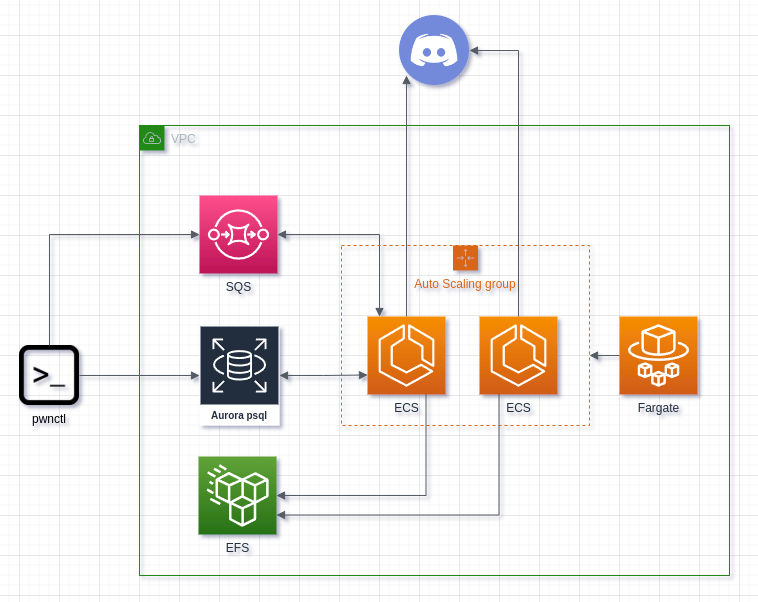
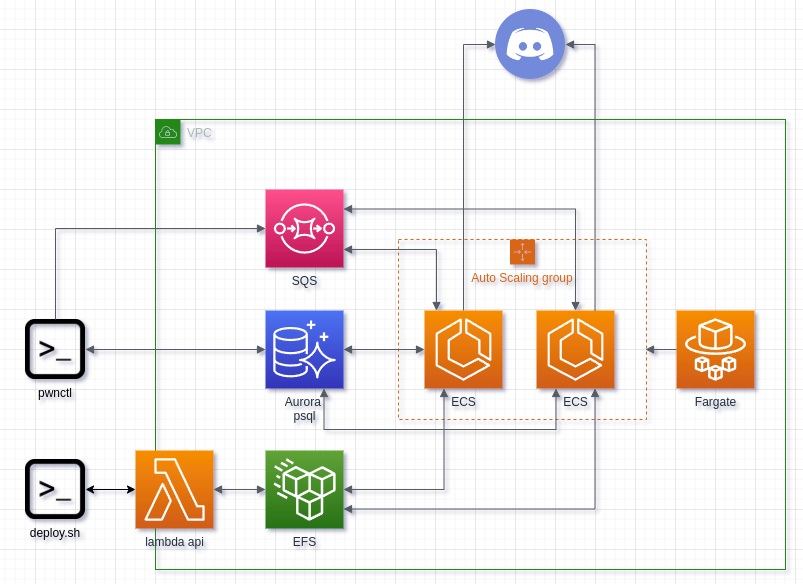
added lambda to diagram, fixed some stuff

Changed region(s): [[0.0, 0.0, 0.971, 0.9863], [0.0303, 0.7705, 0.1214, 0.9247], [0.0607, 0.4315, 0.091, 0.4623]]

diff --git a/src/pwnctl.cli/ModeProviders/ListModeProvider.cs b/src/pwnctl.cli/ModeProviders/ListModeProvider.cs
@@ -19,7 +19,20 @@ namespace pwnctl.cli.ModeProviders
                 assets.ToList().ForEach(a => Console.WriteLine(a.ToJson() + "\n"));
             }
 
-            var @class = args[1];
+            if (args.Length < 2 || args[1] != "--class")
+            {
+                Console.WriteLine("--class option is required");
+                PrintHelpSection();
+                return Task.CompletedTask;
+            }
+            else if (args.Length < 3)
+            {
+                Console.WriteLine("No value provided for --class option");
+                PrintHelpSection();
+                return Task.CompletedTask;
+            }
+
+            var @class = args[2];
 
             AssetRepository repository = new();
             if (@class.ToLower() == "hosts")
@@ -64,7 +77,9 @@ namespace pwnctl.cli.ModeProviders
         public void PrintHelpSection()
         {
             Console.WriteLine($"\t{ModeName}");
-
+            Console.WriteLine($"\t\tlists asset of the specified class in jsonline format.");
+            Console.WriteLine($"\t\tArguments:");
+            Console.WriteLine($"\t\t\t--class\tthe asset class (hosts/endpoints/domains/services/dnsrecords/netranges/emails).");
         }
     }
 }

diff --git a/src/pwnctl.cli/ModeProviders/ExportModeProvider.cs b/src/pwnctl.cli/ModeProviders/ExportModeProvider.cs
@@ -20,7 +20,20 @@ namespace pwnctl.cli.ModeProviders
                 assets.ToList().ForEach(a => File.AppendAllText(filename, a.ToJson() + "\n"));
             }
 
-            string path = args[1];
+            if (args.Length < 2 || args[1] != "--path")
+            {
+                Console.WriteLine("--path option is required");
+                PrintHelpSection();
+                return Task.CompletedTask;
+            }
+            else if (args.Length < 3)
+            {
+                Console.WriteLine("No value provided for --path option");
+                PrintHelpSection();
+                return Task.CompletedTask;
+            }
+
+            var path = args[2];
 
             try
             {
@@ -53,7 +66,9 @@ namespace pwnctl.cli.ModeProviders
         public void PrintHelpSection()
         {
             Console.WriteLine($"\t{ModeName}");
-
+            Console.WriteLine($"\t\texports assets in jsonline format at the specified path.");
+            Console.WriteLine($"\t\tArguments:");
+            Console.WriteLine($"\t\t\t--path\tthe export path.");
         }
     }
 }

diff --git a/src/pwnctl.cli/ModeProviders/SummaryModeProvider.cs b/src/pwnctl.cli/ModeProviders/SummaryModeProvider.cs
@@ -55,6 +55,7 @@ namespace pwnctl.cli.ModeProviders
         public void PrintHelpSection()
         {
             Console.WriteLine($"\t{ModeName}");
+            Console.WriteLine($"\t\tprints a summary of the found assets and queued tasks");
         }
     }
 }

diff --git a/test/pwnctl.UnitTests/Tests.cs b/test/pwnctl.UnitTests/Tests.cs
@@ -1,4 +1,4 @@
-namespace pwnctl.tests;
+namespace pwnctl.test;
 
 using pwnctl.app.Repositories;
 using pwnctl.app.Utilities;

diff --git a/README.md b/README.md
@@ -154,7 +154,7 @@ Rules:
 
 reads sql queries from stdin, executes them and prints the output in JSONL(ine) format
 
-## `pwnctl list --mode <domains/hosts/endpoints/etc>`
+## `pwnctl list --class <domains/hosts/endpoints/etc>`
 
 lists assets of the specified class in JSONL(ine) format
 
